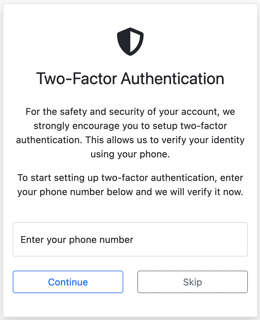
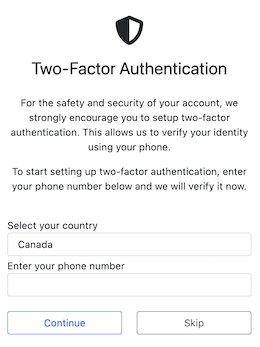
handle no carrier type

diff --git a/django_twilio_2fa/templates/twilio_2fa/registration_form.html b/django_twilio_2fa/templates/twilio_2fa/registration_form.html
@@ -13,7 +13,7 @@
                     {% render_field form.country_code class+="form-control" %}
                 </div>
             </div>
-            <div class="col-12 m-auto">
+            <div class="col-12 m-auto mt-1">
                 <div class="form-group has-validation">
                     <label for="phone_number">Enter your phone number</label>
                     {% render_field form.phone_number class+="form-control" %}

diff --git a/django_twilio_2fa/utils.py b/django_twilio_2fa/utils.py
@@ -63,11 +63,13 @@ def country_code_choices():
     )) - set(get_setting(
         "PHONE_NUMBER_DISALLOWED_COUNTRIES",
         default=[]
-    ))).sort()
+    )))
+
+    country_codes.sort()
 
     choices = []
     for c in country_codes:
-        country = pycountry.countries.get(alpha2=c)
+        country = pycountry.countries.get(alpha_2=c)
         if country:
             choices.append((c, country.name))
         else:
@@ -96,9 +98,9 @@ def get_twilio_client(**kwargs):
     return TwilioClient(*args, **kwargs)
 
 
-def parse_phone_number(phone_number):
+def parse_phone_number(phone_number, country_code=None):
     try:
-        return phonenumbers.parse(phone_number, get_default_region())
+        return phonenumbers.parse(phone_number, get_default_region(country_code))
     except NumberParseException as e:
         raise ValidationError(str(e))
 
@@ -124,34 +126,40 @@ def verify_phone_number(phone_number, country_code, do_lookup=False):
         default=["mobile"]
     )
 
+    allowed_methods = get_setting(
+        "ALLOWED_METHODS",
+        default=["sms", "call"]
+    )
+
     if do_lookup and not do_lookup_setting:
         do_lookup = False
 
-    phone_number = parse_phone_number(phone_number)
+    phone_number = parse_phone_number(phone_number, country_code)
 
     if not phonenumbers.is_valid_number(phone_number):
-        raise ValidationError("Invalid phone number")
+        raise ValidationError("Invalid phone number.")
 
     if do_lookup:
         try:
             response = (get_twilio_client().lookups
-                .phone_numbers(phone_number.national_number)
-                .fetch(type=["carrier"])
+                        .phone_numbers(phonenumbers.format_number(phone_number, phonenumbers.PhoneNumberFormat.E164))
+                        .fetch(type=["carrier"])
             )
         except TwilioRestException as e:
             raise ValidationError("Unable to validate your phone number at this time. Please try again later.")
 
         country_code = response.country_code
-        carrier_type = response.carrier.get("type", "")
+        carrier_type = response.carrier.get("type", None)
+
+        if country_code not in allowed_country_codes or country_code in disallowed_country_codes:
+            raise ValidationError(f"We do not allow phone numbers originating from {country_code}.")
 
         if carrier_type is None:
-            raise ValidationError(f"Invalid phone number.")
+            if allowed_methods and "call" not in allowed_methods:
+                raise ValidationError(f"Invalid phone number.")
 
         if carrier_type not in allowed_carrier_types:
             raise ValidationError(f"{carrier_type.title()} phone numbers are not allowed. "
                                   f"Must be a {' or '.join(allowed_carrier_types)} phone number.")
-
-        if country_code not in allowed_country_codes or country_code in disallowed_country_codes:
-            raise ValidationError(f"We do not allow phone numbers originating from {country_code}.")
 
     return True

diff --git a/test_app/settings.py b/test_app/settings.py
@@ -160,7 +160,6 @@ TWILIO_2FA_AUTH_TOKEN = env("TWILIO_2FA_AUTH_TOKEN")
 TWILIO_2FA_SERVICE_ID = env("TWILIO_2FA_SERVICE_ID")
 
 TWILIO_2FA_PHONE_NUMBER_ALLOWED_COUNTRIES = "US,CA,IN".split(",")
-TWILIO_2FA_PHONE_NUMBER_DISALLOWED_COUNTRIES = "US".split(",")
 
 TWILIO_2FA_ALLOW_USER_ERROR_MESSAGE = "nope"
 

diff --git a/README.md b/README.md
@@ -12,6 +12,8 @@
 
 Install using `pip install django-twilio-2fa`.
 
+If install fails, try `pip install --upgrade pip`
+
 Add to your `INSTALLED_APPS`:
 ```python
 INSTALLED_APPS = (
